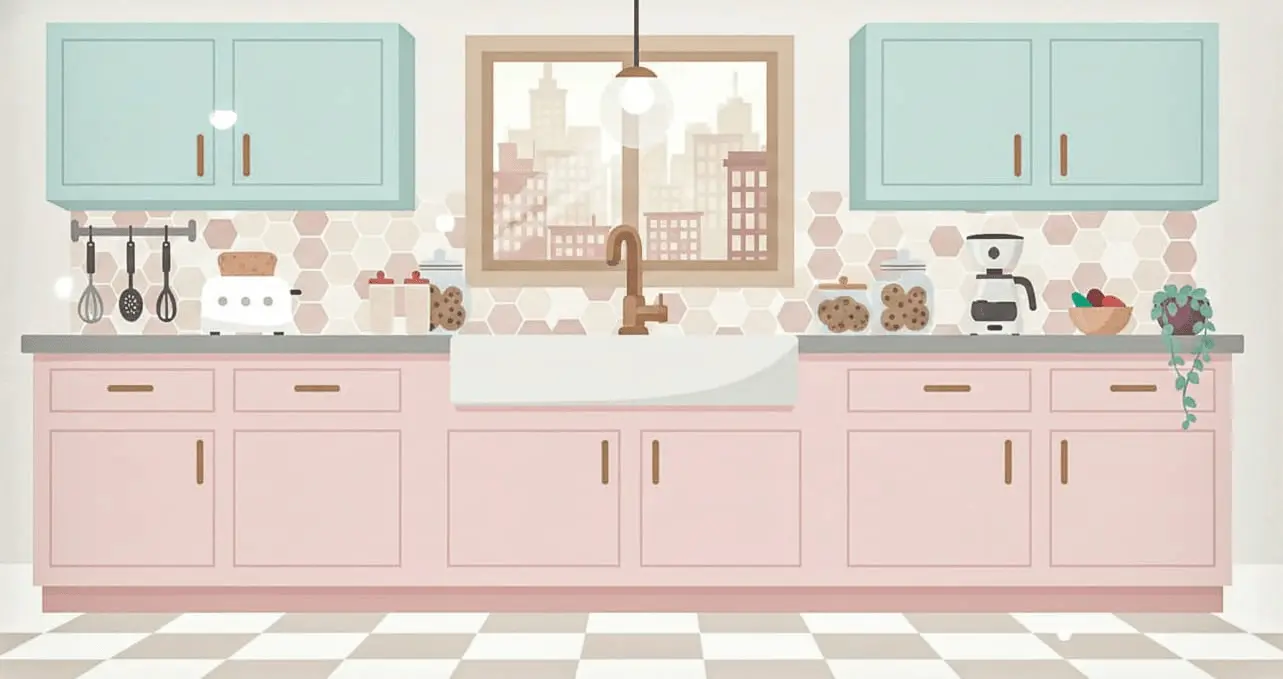
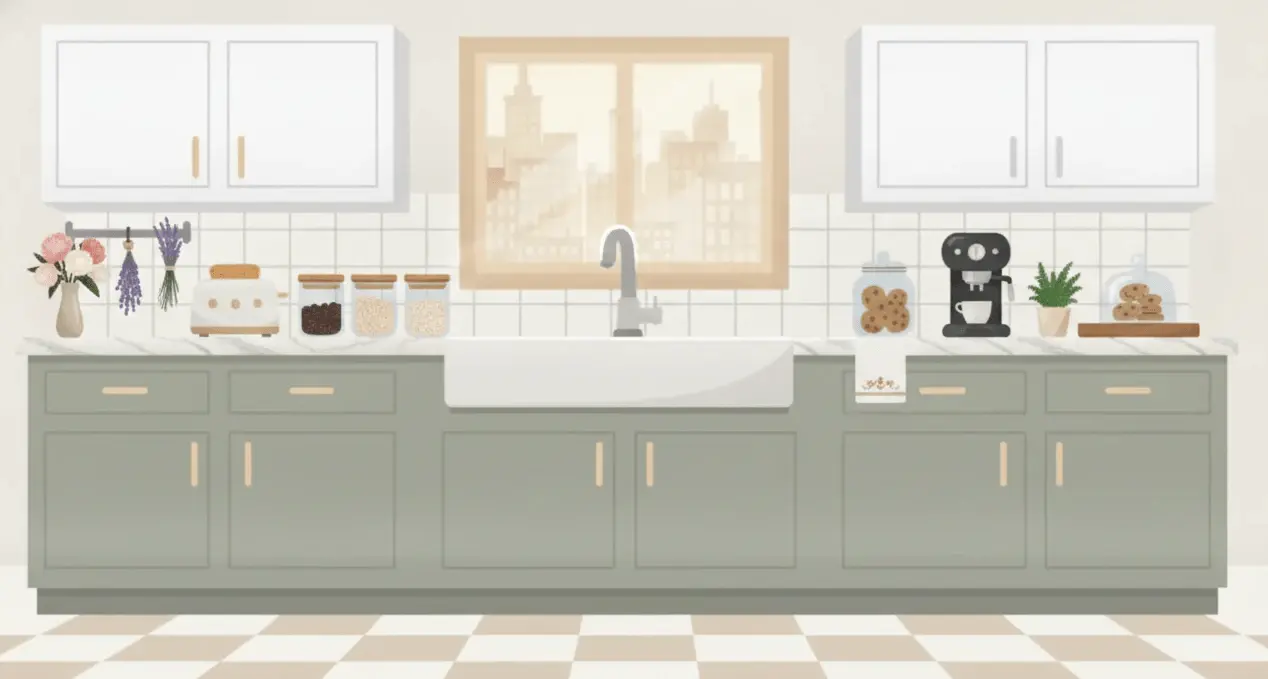
Correción de boton de seleccion en pausa y imagenes no arrastrables

diff --git a/js/juegoA.js b/js/juegoA.js
@@ -19,10 +19,13 @@ let intervalTime;
 let intervalSpawn;
 let animationId;
 
+// Cursor auto-oculto
+let cursorTimeout = null;
+
 // Imágenes
 let imgBackground, imgPlayer;
 let imgBtnEasy, imgBtnNormal, imgBtnHard;
-let imgWin, imgLose, imgBtnRestart, imgBtnDiff;
+let imgWin, imgLose, imgBtnRestart, imgBtnDiff, imgBtnDiffPause;
 let imgLife, imgBarIcon;
 let imgGood, imgBad, imgBonus;
 let imgCover, imgCoverBtn;
@@ -187,6 +190,24 @@ function wrapText(ctx, text, x, y, maxWidth, lineHeight) {
   ctx.fillText(line, x, y);
 }
 
+// ─── Cursor helpers ───────────────────────────────────────────────────────────
+
+function showCursor(isPointer = false) {
+  canvas.style.cursor = isPointer ? "pointer" : "default";
+  clearTimeout(cursorTimeout);
+  cursorTimeout = setTimeout(() => {
+    if (state === "playing") {
+      canvas.style.cursor = "none";
+    }
+  }, 3000);
+}
+
+function hideCursor() {
+  clearTimeout(cursorTimeout);
+  cursorTimeout = null;
+  canvas.style.cursor = "none";
+}
+
 // ─── init ─────────────────────────────────────────────────────────────────────
 
 export function init() {
@@ -251,6 +272,9 @@ export function init() {
 
   imgBtnDiff = new Image();
   imgBtnDiff.src = "src/selectbtn.webp";
+
+  imgBtnDiffPause = new Image();
+  imgBtnDiffPause.src = "src/selectbtn-b.webp";
 
   imgLife = new Image();
   imgLife.src = "src/life.webp";
@@ -429,7 +453,7 @@ export function init() {
   };
   canvas.addEventListener("mousemove", mouseMoveHandler1);
 
-  // mousemove: hover
+  // mousemove: hover + cursor auto-oculto
   mouseMoveHandler2 = (e) => {
     const rect = canvas.getBoundingClientRect();
     const x = (e.clientX - rect.left) / scale;
@@ -475,8 +499,13 @@ export function init() {
         hoverPauseDiff =
           Math.hypot(x - pauseDiffBtn.x, y - pauseDiffBtn.y) < pauseDiffBtn.r;
       }
+      // Mostrar cursor y reiniciar el temporizador de ocultado
+      const isPointer = hoverPause || hoverPauseDiff;
+      showCursor(isPointer);
+      return; // el cursor ya fue gestionado por showCursor, salimos
     }
 
+    // Fuera de "playing": cursor normal sin temporizador
     canvas.style.cursor =
       hoverRestart ||
       hoverDiff ||
@@ -495,13 +524,17 @@ export function init() {
   mouseLeaveHandler = () => {
     if (state === "playing") {
       paused = true;
+      hideCursor();
     }
     hoverRestart = hoverDiff = false;
     hoverEasy = hoverNormal = hoverHard = false;
     hoverCoverBtn = hoverEntendido = false;
     hoverPause = false;
     hoverPauseDiff = false;
-    canvas.style.cursor = "default";
+
+    if (state !== "playing") {
+      canvas.style.cursor = "default";
+    }
   };
   canvas.addEventListener("mouseleave", mouseLeaveHandler);
 
@@ -596,6 +629,10 @@ export function init() {
         circuitMode = false;
         keysPressed["ArrowLeft"] = false;
         keysPressed["ArrowRight"] = false;
+        // Restaurar cursor al salir de "playing"
+        clearTimeout(cursorTimeout);
+        cursorTimeout = null;
+        canvas.style.cursor = "default";
         state = "difficulty";
         return;
       }
@@ -621,6 +658,10 @@ export function init() {
         paused = false;
         state = "gameover";
         endScreenTime = performance.now();
+        // Restaurar cursor al salir de "playing"
+        clearTimeout(cursorTimeout);
+        cursorTimeout = null;
+        canvas.style.cursor = "default";
         AudioManager.stopMusic();
         AudioManager.playSFX("src/sounds/gameover.mp3");
       }
@@ -659,6 +700,9 @@ export function cleanup() {
   clearInterval(intervalTime);
   clearInterval(intervalSpawn);
   cancelAnimationFrame(animationId);
+  // Limpiar timeout del cursor y restaurarlo
+  clearTimeout(cursorTimeout);
+  cursorTimeout = null;
   canvas.style.cursor = "default";
 }
 
@@ -762,6 +806,10 @@ function update() {
     paused = false;
     state = "gameover";
     endScreenTime = performance.now();
+    // Restaurar cursor al salir de "playing"
+    clearTimeout(cursorTimeout);
+    cursorTimeout = null;
+    canvas.style.cursor = "default";
     AudioManager.stopMusic();
     AudioManager.playSFX("src/sounds/gameover.mp3");
   }
@@ -769,6 +817,11 @@ function update() {
   if (score >= config.target && state === "playing") {
     state = "finished";
     paused = false;
+
+    // Restaurar cursor al salir de "playing"
+    clearTimeout(cursorTimeout);
+    cursorTimeout = null;
+    canvas.style.cursor = "default";
 
     AudioManager.stopMusic();
     AudioManager.playSFX("src/sounds/victory.mp3");
@@ -1275,9 +1328,9 @@ function drawPauseButton() {
     ctx.beginPath();
     ctx.arc(dx * scale, dy * scale, dr * scale, 0, Math.PI * 2);
     ctx.clip();
-    if (imgBtnDiff.complete && imgBtnDiff.naturalWidth > 0) {
+    if (imgBtnDiffPause.complete && imgBtnDiffPause.naturalWidth > 0) {
       ctx.drawImage(
-        imgBtnDiff,
+        imgBtnDiffPause,
         (dx - dr) * scale,
         (dy - dr) * scale,
         dr * 2 * scale,

diff --git a/js/juegoB.js b/js/juegoB.js
@@ -20,7 +20,7 @@ let animationId;
 // Imágenes
 let imgBackground;
 let imgBtnEasy, imgBtnNormal, imgBtnHard;
-let imgWin, imgLose, imgBtnRestart, imgBtnDiff, imgBarIcon;
+let imgWin, imgLose, imgBtnRestart, imgBtnDiff, imgBtnDiffPause, imgBarIcon;
 let imgPuzzleEasy, imgPuzzleNormal, imgPuzzleHard;
 let imgBlockEasy, imgBlockNormal, imgBlockHard;
 let imgCover, imgCoverBtn;
@@ -112,9 +112,9 @@ const gridY = 70;
 
 // Configuraciones: tiempo + tablero por dificultad
 const configs = {
-  easy: { time: 300, board: { size: 3, cell: 120, gap: 6 } },
+  easy: { time: 180, board: { size: 3, cell: 120, gap: 6 } },
   normal: { time: 240, board: { size: 4, cell: 86, gap: 5 } },
-  hard: { time: 240, board: { size: 5, cell: 66, gap: 4 } },
+  hard: { time: 300, board: { size: 5, cell: 66, gap: 4 } },
 };
 
 // ─── Helpers ──────────────────────────────────────────────────────────────────
@@ -213,8 +213,12 @@ export function init() {
 
   imgBtnRestart = new Image();
   imgBtnRestart.src = "src/resetbtn.webp";
+
   imgBtnDiff = new Image();
   imgBtnDiff.src = "src/selectbtn.webp";
+
+  imgBtnDiffPause = new Image();
+  imgBtnDiffPause.src = "src/selectbtn-b.webp";
 
   imgBarIcon = new Image();
   const iconSrcs = {
@@ -524,7 +528,7 @@ export function init() {
         dificultadActual = "Fácil";
         currentLevelIndex = 0;
         circuitMode = false;
-        resetGame();
+        startGame();
       }
 
       if (x > 420 && x < 580 && y > 220 && y < 310) {
@@ -532,7 +536,7 @@ export function init() {
         dificultadActual = "Media";
         currentLevelIndex = 1;
         circuitMode = false;
-        resetGame();
+        startGame();
       }
 
       if (x > 620 && x < 780 && y > 220 && y < 310) {
@@ -540,7 +544,7 @@ export function init() {
         dificultadActual = "Difícil";
         currentLevelIndex = 2;
         circuitMode = false;
-        resetGame();
+        startGame();
       }
     }
 
@@ -1272,9 +1276,9 @@ function drawPauseButton() {
     ctx.beginPath();
     ctx.arc(dx * scale, dy * scale, dr * scale, 0, Math.PI * 2);
     ctx.clip();
-    if (imgBtnDiff.complete && imgBtnDiff.naturalWidth > 0) {
+    if (imgBtnDiffPause.complete && imgBtnDiffPause.naturalWidth > 0) {
       ctx.drawImage(
-        imgBtnDiff,
+        imgBtnDiffPause,
         (dx - dr) * scale,
         (dy - dr) * scale,
         dr * 2 * scale,

diff --git a/js/juegoD.js b/js/juegoD.js
@@ -18,7 +18,7 @@ let animationId;
 let imgBgEasy, imgBgNormal, imgBgHard;
 let imgBackground, imgPanelBg;
 let imgBtnEasy, imgBtnNormal, imgBtnHard;
-let imgWin, imgLose, imgBtnRestart, imgBtnDiff;
+let imgWin, imgLose, imgBtnRestart, imgBtnDiff, imgBtnDiffPause;
 let imgBarIcon;
 let imgCover, imgCoverBtn;
 let imgPauseBtn, imgResumeBtn;
@@ -165,7 +165,7 @@ const levelItems = {
 const configs = {
   easy: { time: 180, count: 5 },
   normal: { time: 150, count: 7 },
-  hard: { time: 150, count: 10 },
+  hard: { time: 180, count: 10 },
 };
 
 // ─── Helpers ──────────────────────────────────────────────────────────────────
@@ -273,8 +273,12 @@ export function init() {
 
   imgBtnRestart = new Image();
   imgBtnRestart.src = "src/resetbtn.webp";
+
   imgBtnDiff = new Image();
   imgBtnDiff.src = "src/selectbtn.webp";
+
+  imgBtnDiffPause = new Image();
+  imgBtnDiffPause.src = "src/selectbtn-b.webp";
 
   imgBarIcon = new Image();
   const iconSrcs = {
@@ -435,27 +439,33 @@ export function init() {
 
     if (state === "difficulty") {
       if (x > 220 && x < 380 && y > 220 && y < 310) {
+        configKey = "easy";
         config = configs.easy;
         dificultadActual = "Fácil";
         currentLevelIndex = 0;
         circuitMode = false;
         resetGame();
+        return;
       }
 
       if (x > 420 && x < 580 && y > 220 && y < 310) {
+        configKey = "normal";
         config = configs.normal;
         dificultadActual = "Media";
         currentLevelIndex = 1;
         circuitMode = false;
         resetGame();
+        return;
       }
 
       if (x > 620 && x < 780 && y > 220 && y < 310) {
+        configKey = "hard";
         config = configs.hard;
         dificultadActual = "Difícil";
         currentLevelIndex = 2;
         circuitMode = false;
         resetGame();
+        return;
       }
     }
 
@@ -1101,9 +1111,9 @@ function drawPauseButton() {
     ctx.beginPath();
     ctx.arc(dx * scale, dy * scale, dr * scale, 0, Math.PI * 2);
     ctx.clip();
-    if (imgBtnDiff.complete && imgBtnDiff.naturalWidth > 0) {
+    if (imgBtnDiffPause.complete && imgBtnDiffPause.naturalWidth > 0) {
       ctx.drawImage(
-        imgBtnDiff,
+        imgBtnDiffPause,
         (dx - dr) * scale,
         (dy - dr) * scale,
         dr * 2 * scale,

diff --git a/js/juegoC.js b/js/juegoC.js
@@ -18,7 +18,7 @@ let spawnTimeout;
 // Imágenes
 let imgBackground;
 let imgBtnEasy, imgBtnNormal, imgBtnHard;
-let imgWin, imgLose, imgBtnRestart, imgBtnDiff;
+let imgWin, imgLose, imgBtnRestart, imgBtnDiff, imgBtnDiffPause;
 let imgLife, imgBarIcon;
 let imgEnemy, imgEnemyBlue, imgEnemyPurple;
 let imgLifeItem;
@@ -227,8 +227,13 @@ export function init() {
 
   imgBtnRestart = new Image();
   imgBtnRestart.src = "src/resetbtn.webp";
+
   imgBtnDiff = new Image();
   imgBtnDiff.src = "src/selectbtn.webp";
+
+  imgBtnDiffPause = new Image();
+  imgBtnDiffPause.src = "src/selectbtn-b.webp";
+
   imgLife = new Image();
   imgLife.src = "src/life.webp";
 
@@ -1239,9 +1244,9 @@ function drawPauseButton() {
     ctx.beginPath();
     ctx.arc(dx * scale, dy * scale, dr * scale, 0, Math.PI * 2);
     ctx.clip();
-    if (imgBtnDiff.complete && imgBtnDiff.naturalWidth > 0) {
+    if (imgBtnDiffPause.complete && imgBtnDiffPause.naturalWidth > 0) {
       ctx.drawImage(
-        imgBtnDiff,
+        imgBtnDiffPause,
         (dx - dr) * scale,
         (dy - dr) * scale,
         dr * 2 * scale,

diff --git a/styles/index.css b/styles/index.css
@@ -54,6 +54,12 @@ main {
   font-size: 1.1rem;
 }
 
+img {
+  -webkit-user-drag: none;
+  user-select: none;
+  -webkit-user-select: none;
+}
+
 /* ── Pantalla de bloqueo para móviles muy pequeños ── */
 .pantalla-no-disponible {
   display: none;
